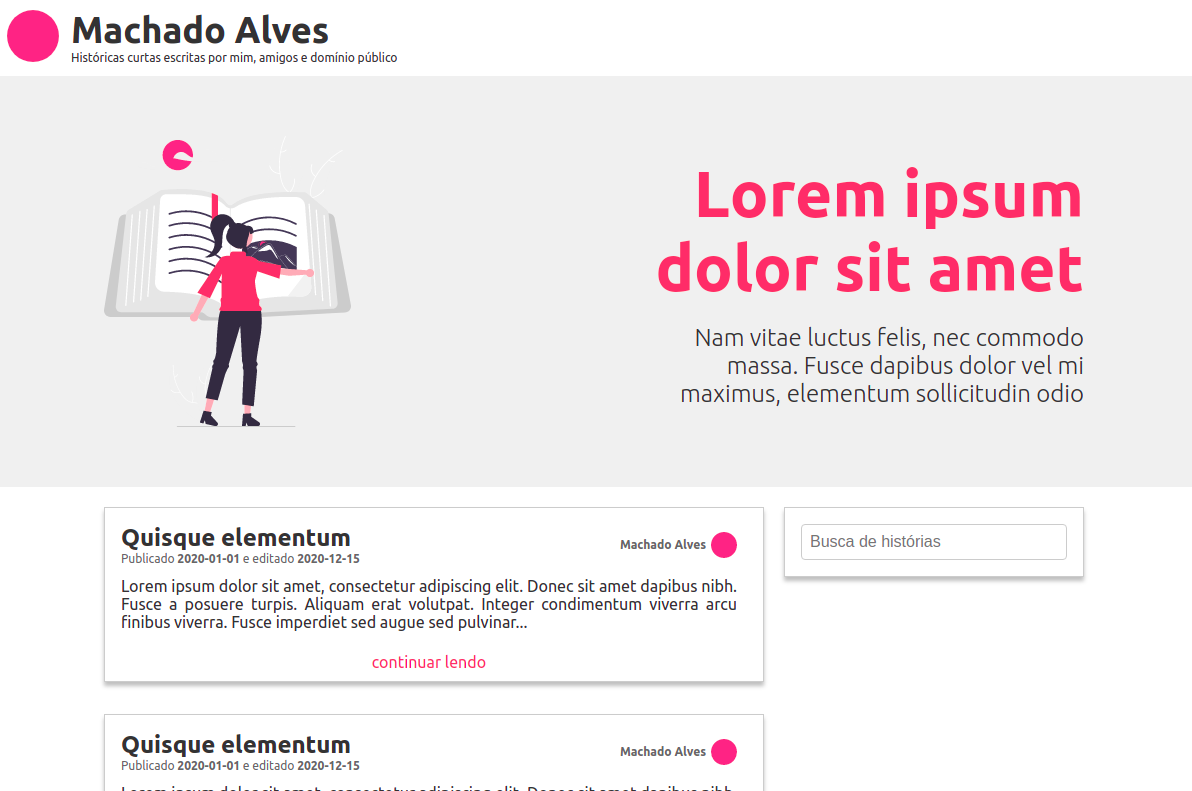
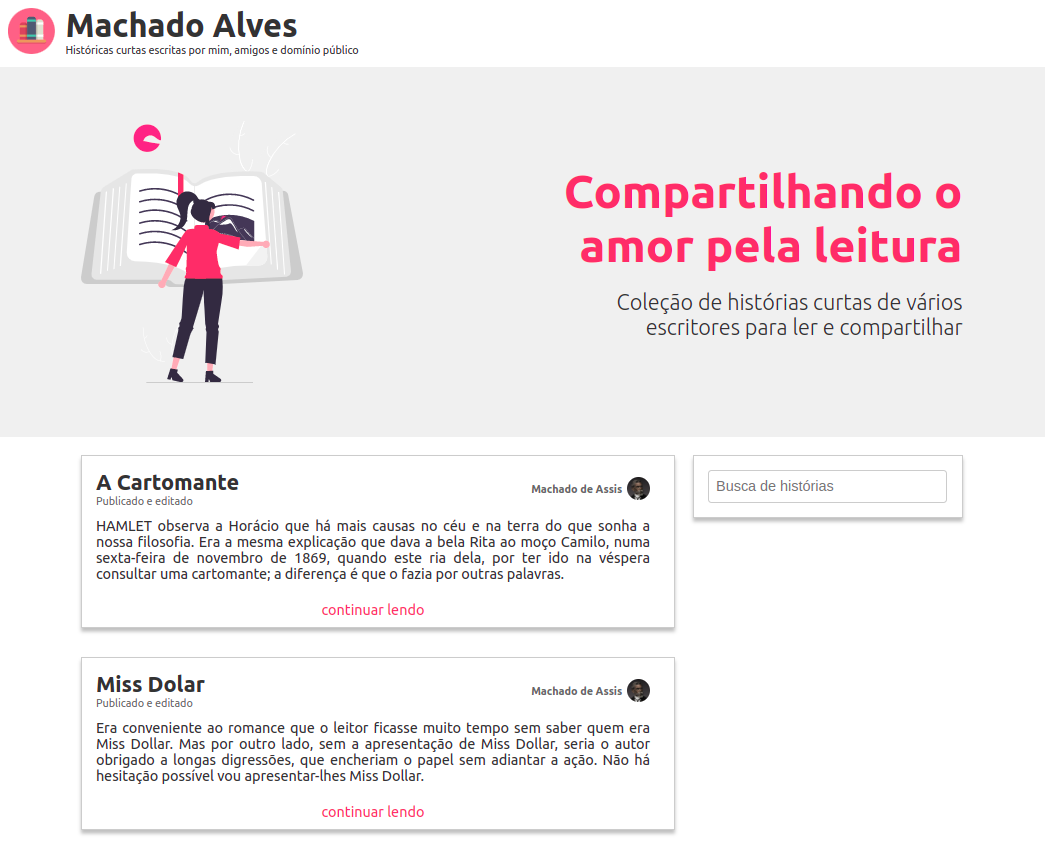
:sparkles: Substituindo os placeholders

diff --git a/src/components/WrapperPage/Header/logo.tsx b/src/components/WrapperPage/Header/logo.tsx
@@ -1,0 +1,51 @@
+const IcoLogo = () => (
+  <svg
+    style={{
+      height: '5.2rem',
+      width: '5.2rem',
+      margin: '0 1.2rem',
+      cursor: 'pointer'
+    }}
+    enableBackground="new 0 0 64 64"
+    version="1.1"
+    viewBox="0 0 64 64"
+    xmlSpace="preserve"
+    xmlns="http://www.w3.org/2000/svg"
+  >
+    <circle cx="31.833" cy="32" r="32" fill="#ff7e84" />
+    <g opacity=".2">
+      <path
+        d="m52 48c0 1.105-0.895 2-2 2h-36c-1.105 0-2-0.895-2-2s0.895-2 2-2h36c1.105 0 2 0.895 2 2z"
+        fill="#231F20"
+      />
+    </g>
+    <path
+      d="m52 46c0 1.105-0.895 2-2 2h-36c-1.105 0-2-0.895-2-2s0.895-2 2-2h36c1.105 0 2 0.895 2 2z"
+      fill="#E0995E"
+    />
+    <path
+      d="m23 20h-4c-1.657 0-3 1.343-3 3v21h10v-21c0-1.657-1.343-3-3-3z"
+      fill="#C75C5C"
+    />
+    <path
+      d="m45 16h-4c-1.657 0-3 1.343-3 3v25h10v-25c0-1.657-1.343-3-3-3z"
+      fill="#E0E0D1"
+    />
+    <rect x="16" y="24" width="10" height="3" fill="#E0995E" />
+    <rect x="16" y="37" width="10" height="3" fill="#E0995E" />
+    <rect x="38" y="37" width="10" height="3" fill="#fff" />
+    <rect x="38" y="20" width="10" height="3" fill="#fff" />
+    <g fill="#231F20" opacity=".2">
+      <path d="m40 40v-23.816c-1.163 0.413-2 1.512-2 2.816v25h2v-4z" />
+      <path d="m26 40v-17c0-1.304-0.837-2.403-2-2.816v23.816h2v-4z" />
+    </g>
+    <path
+      d="m35 12h-6c-1.657 0-3 1.343-3 3v29h12v-29c0-1.657-1.343-3-3-3z"
+      fill="#4F5D73"
+    />
+    <rect x="26" y="16" width="12" height="3" fill="#76C2AF" />
+    <rect x="26" y="37" width="12" height="3" fill="#76C2AF" />
+  </svg>
+)
+
+export default IcoLogo

diff --git a/src/view/Main/index.tsx b/src/view/Main/index.tsx
@@ -16,10 +16,10 @@ const Main = ({ highlights }: MainProps) => (
       <S.Content>
         <Reading />
         <div>
-          <h2>Lorem ipsum dolor sit amet</h2>
+          <h2>Compartilhando o amor pela leitura</h2>
           <p>
-            Nam vitae luctus felis, nec commodo massa. Fusce dapibus dolor vel
-            mi maximus, elementum sollicitudin odio
+            Coleção de histórias curtas de vários escritores para ler e
+            compartilhar
           </p>
         </div>
       </S.Content>

diff --git a/src/components/WrapperPage/Header/styles.ts b/src/components/WrapperPage/Header/styles.ts
@@ -1,5 +1,7 @@
 import styled from 'styled-components'
 
+import Logo from './logo'
+
 export const Wrapper = styled.header`
   height: 8rem;
   width: 100%;
@@ -9,14 +11,7 @@ export const Wrapper = styled.header`
   justify-content: flex-start;
 `
 
-export const Icon = styled.div`
-  height: 5.2rem;
-  width: 5.2rem;
-  margin: 0 1.2rem;
-  border-radius: 100%;
-  background-color: var(--icon-bg-color);
-  cursor: pointer;
-`
+export const Icon = styled(Logo)``
 
 export const Title = styled.div`
   display: flex;

diff --git a/src/view/Main/styles.ts b/src/view/Main/styles.ts
@@ -23,7 +23,7 @@ export const Content = styled.div`
 
     & h2 {
       color: var(--highlight-text);
-      font-size: 6.4rem;
+      font-size: 5.2rem;
       margin-bottom: 2rem;
     }
 
